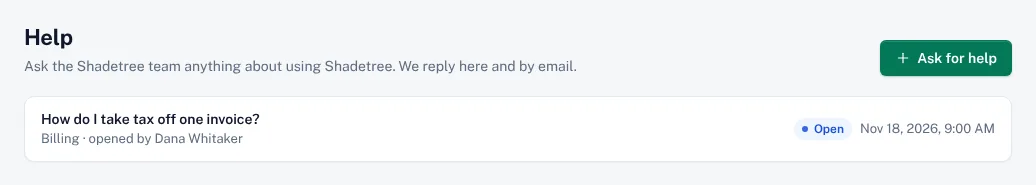
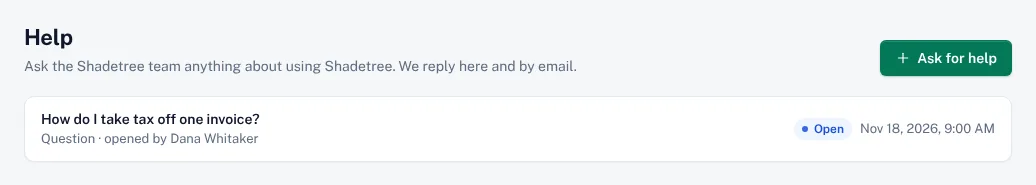
OPS-06 part 4: the drop guard checks the database Rails will use; links show the real site
bin/help-screenshots resolves the database name as Rails will (UrlConfig) and refuses a query
string that names a database (?database= or ?dbname=), for DATABASE_URL and HELP_DATABASE_URL
alike, so nothing but a _help database is ever dropped. In the capture, links render with
https://getshadetree.com, and a picture showing the local server's address is refused. The brand
check matches names across line breaks and lists the payment apps, mail apps and browsers too.
The capture's wait sleeps each time round, the workflow runs only on branches, My day's welcome is
dismissed before pictures, and the demo question is filed as a question.

Claude-Session: https://claude.ai/code/session_01STSMyyw2JA3DZHFPa2E6RQ

Changed region(s): [[0.0309, 0.7027, 0.2471, 0.7838]]

diff --git a/lib/help_screenshots_database.rb b/lib/help_screenshots_database.rb
@@ -1,11 +1,13 @@
-# OPS-06: the database bin/help-screenshots wipes and fills with the demo data. It's the
-# database DATABASE_URL names with "_help" added to the name itself (never to anything after
-# it, such as ?application_name=…), or HELP_DATABASE_URL as given when its database's name ends
-# in "_help". Anything else is refused before anything is dropped. Plain Ruby: the script asks
-# for it before Rails boots.
+# OPS-06: the database bin/help-screenshots wipes and fills with the demo data. It's the database
+# DATABASE_URL names with "_help" added to its name, or HELP_DATABASE_URL as given. Before
+# anything is dropped, the name is resolved as Rails will resolve it, and refused unless it ends
+# in "_help"; a query string that names a database itself (?database=… or ?dbname=…) is refused
+# too, since Rails would connect to that one instead. Runs before Rails boots.
 #
 #   ruby lib/help_screenshots_database.rb   # prints the URL, or explains and exits 1
 require "uri"
+require "active_record"
+require "active_record/database_configurations"
 
 module HelpScreenshotsDatabase
   class Refused < StandardError; end
@@ -13,17 +15,31 @@ module HelpScreenshotsDatabase
   SUFFIX = "_help"
   DEFAULT = "postgres:///shadetree_test"
   NAME = /\A[A-Za-z0-9_.-]+\z/
+  NAMING_PARAMETERS = %w[database dbname].freeze
 
   def self.url(database_url: ENV["DATABASE_URL"], help_url: ENV["HELP_DATABASE_URL"])
-    if help_url.to_s.strip != ""
-      name = database_name(parse(help_url))
-      raise Refused, "HELP_DATABASE_URL names #{name.inspect}, which doesn't end in #{SUFFIX}" unless name.end_with?(SUFFIX)
+    url = if help_url.to_s.strip != ""
+      help_url
+    else
+      uri = parse(database_url.to_s.strip == "" ? DEFAULT : database_url)
+      name = URI.decode_www_form_component(uri.path.to_s.delete_prefix("/"))
+      raise Refused, "the URL doesn't name a database (postgres:///name)" unless name.match?(NAME)
 
-      return help_url
+      uri.path = "/#{name}#{SUFFIX}"
+      uri.to_s
     end
-    uri = parse(database_url.to_s.strip == "" ? DEFAULT : database_url)
-    uri.path = "/#{database_name(uri)}#{SUFFIX}"
-    uri.to_s
+    check!(url)
+    url
+  end
+
+  # The database Rails would connect to with this URL, which must end in _help.
+  def self.check!(url)
+    uri = parse(url)
+    named = URI.decode_www_form(uri.query.to_s).map(&:first) & NAMING_PARAMETERS
+    raise Refused, "the URL's query names a database (#{named.join(", ")}=…); put the name in the path" if named.any?
+
+    name = ActiveRecord::DatabaseConfigurations::UrlConfig.new("test", "primary", url, {}).database.to_s
+    raise Refused, "it would use the database #{name.inspect}, whose name doesn't end in #{SUFFIX}" unless name.match?(NAME) && name.end_with?(SUFFIX)
   end
 
   def self.parse(url)
@@ -31,15 +47,8 @@ module HelpScreenshotsDatabase
     raise Refused, "#{uri.scheme.inspect} isn't a PostgreSQL URL" unless %w[postgres postgresql].include?(uri.scheme)
 
     uri
-  rescue URI::InvalidURIError
+  rescue URI::InvalidURIError, ArgumentError
     raise Refused, "that isn't a database URL"
-  end
-
-  def self.database_name(uri)
-    name = URI.decode_www_form_component(uri.path.to_s.delete_prefix("/"))
-    raise Refused, "the URL doesn't name a database (postgres:///name)" unless name.match?(NAME)
-
-    name
   end
 end
 

diff --git a/app/models/help_centre/screenshots.rb b/app/models/help_centre/screenshots.rb
@@ -17,6 +17,7 @@ module HelpCentre::Screenshots
   COMMAND = "bin/help-screenshots"
   MAX_BYTES = 200_000
   PASSWORD = "shadetree-demo-1"
+  PUBLIC_HOST = "getshadetree.com"
   # Who's signed in, by the front matter's `as:` (the demo users in db/seeds/development.rb).
   USERS = { "owner" => "owner@example.com", "admin" => "admin@example.com", "technician" => "tech@example.com",
             "new" => "new@example.com" }.freeze
@@ -97,7 +98,8 @@ module HelpCentre::Screenshots
       # your own, automations); Starter's limits would show "upgrade" notices instead.
       Business.find_by!(name: BUSINESS).update!(plan: Plan.find_by!(key: "pro"))
       User.update_all(tips_off: true)
-      BusinessUser.update_all(tour_status: "finished", tour_offered_at: Time.current, tour_ended_at: Time.current)
+      BusinessUser.update_all(tour_status: "finished", tour_offered_at: Time.current, tour_ended_at: Time.current,
+                              welcome_dismissed_at: Time.current) # and My day's welcome, so it covers nothing
       yield
     end
   end
@@ -176,8 +178,15 @@ module HelpCentre::Screenshots
   # Headless Chrome on the app, served in this process (as system tests are), so it sees the
   # same database and the same stopped clock.
   class Browser
+    # Links in the pictures (a request form's address, a client link) show the real site, not the
+    # capture's local server. Only in the capturing process; redirects to paths aren't affected.
+    module PublicHost
+      def default_url_options = super.merge(host: HelpCentre::Screenshots::PUBLIC_HOST, protocol: "https", port: nil)
+    end
+
     def capture(shots)
       require "capybara"
+      ApplicationController.prepend(PublicHost) unless ApplicationController < PublicHost
       Capybara.server = :puma, { Silent: true }
       server = Capybara::Server.new(Rails.application).boot
       base = "http://#{server.host}:#{server.port}"
@@ -210,9 +219,14 @@ module HelpCentre::Screenshots
       page.command("Emulation.setEmulatedMedia", features: [ { name: "prefers-reduced-motion", value: "reduce" } ])
       page.go_to(url)
       page.network.wait_for_idle(timeout: 10)
-      50.times { break if page.evaluate("document.fonts.status") == "loaded" && page.at_css("html[data-controllers-loaded]") && sleep(0.2) }
+      50.times do
+        break if page.evaluate("document.fonts.status") == "loaded" && page.at_css("html[data-controllers-loaded]")
+
+        sleep 0.2
+      end
       raise "#{shot.name}: #{url} went to #{page.current_url}" unless page.current_url == url
       raise "#{shot.name}: no #{shot.region} at #{url}" unless page.at_css(shot.region)
+      raise "#{shot.name}: shows the capture's local address" if page.at_css(shot.region).text.match?(/127\.0\.0\.1|localhost/)
 
       # Chrome paints only what's in the window: make it as tall as the page, so a long region
       # is captured whole.

diff --git a/test/models/help/help_checks_test.rb b/test/models/help/help_checks_test.rb
@@ -69,11 +69,12 @@ class HelpChecksTest < ActiveSupport::TestCase
     dir = Pathname(Dir.mktmpdir).tap { _1.join("articles").mkpath }
     FileUtils.cp(HelpLibraryHelpers::FIXTURES.join("topics.yml"), dir)
     dir.join("articles/pay.md").write("---\ntitle: Get paid by card\nsummary: Online.\ncategory: invoices-payments\ntopics: []\nreviewed: 2026-11-24\n---\n" \
-                                      "Connect your Stripe account.\n\n![Press Pay with Apple Pay](x.webp)\n")
+                                      "Connect your Stripe account.\n\n![Press Pay with Apple Pay](x.webp)\n\nOr pay by Google\nPay, or Venmo.\n")
     dir.join("articles/trees.md").write("---\ntitle: Prune apple trees\nsummary: An outlook for spring.\ncategory: services-prices\ntopics: []\nreviewed: 2026-11-24\n---\n" \
                                         "Polish the chrome trim, then excel at edging.\n")
     use_help_library(dir)
-    assert_equal [ "pay: names Stripe; say what it does instead", "pay: names Apple Pay; say what it does instead" ], HelpCentre::Checks.brands(HelpCentre.library)
+    assert_equal [ "Stripe", "Apple Pay", "Google Pay", "Venmo" ].map { "pay: names #{_1}; say what it does instead" }, HelpCentre::Checks.brands(HelpCentre.library),
+                 "case-sensitive whole words, across line breaks; the trees article passes"
   ensure
     FileUtils.rm_rf(dir) if dir
   end

diff --git a/test/lib/help_screenshots_database_test.rb b/test/lib/help_screenshots_database_test.rb
@@ -20,6 +20,19 @@ class HelpScreenshotsDatabaseTest < ActiveSupport::TestCase
     assert_raises(HelpScreenshotsDatabase::Refused) { url(nil, "postgres:///production") }
   end
 
+  test "refuses a query string that names another database, which Rails would use instead" do
+    error = assert_raises(HelpScreenshotsDatabase::Refused) { url("postgres:///x?database=junk2") }
+    assert_includes error.message, "database"
+    assert_raises(HelpScreenshotsDatabase::Refused) { url("postgres:///x?application_name=a&dbname=junk2") }
+    assert_raises(HelpScreenshotsDatabase::Refused) { url(nil, "postgres:///mine_help?database=junk2") }
+    assert_raises(HelpScreenshotsDatabase::Refused) { url(nil, "postgres:///mine_help?dbname=production") }
+  end
+
+  test "checks the name Rails resolves, not just the path" do
+    assert_equal "shadetree_test_help", ActiveRecord::DatabaseConfigurations::UrlConfig.new("test", "primary", url(nil), {}).database
+    assert_equal "x_help", ActiveRecord::DatabaseConfigurations::UrlConfig.new("test", "primary", url("postgres:///x?application_name=dev"), {}).database
+  end
+
   test "refuses what isn't a PostgreSQL URL naming a database" do
     [ "mysql://h/x", "postgres://host/", "postgres:///", "not a url at all", "postgres:///a;drop" ].each do |bad|
       assert_raises(HelpScreenshotsDatabase::Refused, bad) { url(bad) }

diff --git a/db/seeds/development.rb b/db/seeds/development.rb
@@ -541,7 +541,7 @@ end
 # OPS-05: a support ticket with a reply, an operator's internal note and the owner's answer by email.
 Tenancy.with_business(business) do
   unless SupportTicket.exists?
-    ticket = SupportTicket.open!(opened_by: owner, subject: "How do I take tax off one invoice?", category: "billing", page: "/admin/invoices",
+    ticket = SupportTicket.open!(opened_by: owner, subject: "How do I take tax off one invoice?", category: "question", page: "/admin/invoices",
                                  browser: "Mozilla/5.0 (Macintosh) Safari/605.1.15", body: "Westgate is tax exempt for this building only. How do I take tax off just this invoice?")
     ticket.note!(owner, "Exempt building; check they have the certificate on file.")
     ticket.reply_from_operator!(owner, "Open the invoice, choose Tax on the line, then pick None. Only that invoice changes.")

diff --git a/app/models/help_centre.rb b/app/models/help_centre.rb
@@ -51,7 +51,7 @@ module HelpCentre
   # does ("your card payment provider"), not whose it is. The app's own wording, and so the
   # screenshots of it, stay as they are (spec Decisions, 2026-11-24). Case-sensitive, whole
   # words: "apple trees" and "chrome trim" are fine.
-  BRANDS = /\b(?:Stripe|WhatsApp|Apple Pay|Google Pay|Google|iPhone|Android|Microsoft|Excel|QuickBooks|Facebook|Instagram|Mastercard|Visa)\b/
+  BRANDS = /\b(?:Stripe|WhatsApp|Apple\s+Pay|Google\s+Pay|Google|PayPal|Venmo|Zelle|Gmail|Outlook|iPhone|Android|Chrome|Safari|Microsoft|Excel|QuickBooks|Facebook|Instagram|Mastercard|Visa)\b/
   TOPIC = /\A[a-z0-9_]+\z/
   FIELDS = %w[title summary category topics reviewed screenshots].freeze
   SCREENSHOT_FIELDS = %w[name path as region].freeze

diff --git a/app/models/help_centre/checks.rb b/app/models/help_centre/checks.rb
@@ -60,7 +60,7 @@ module HelpCentre::Checks
 
   def brands(library)
     library.articles.flat_map do |article|
-      [ article.title, article.summary, article.body ].join("\n").scan(HelpCentre::BRANDS).uniq.map { "#{article.slug}: names #{_1}; say what it does instead" }
+      [ article.title, article.summary, article.body ].join("\n").scan(HelpCentre::BRANDS).map(&:squish).uniq.map { "#{article.slug}: names #{_1}; say what it does instead" }
     end
   end
 

diff --git a/docs/runbooks/help-screenshots.md b/docs/runbooks/help-screenshots.md
@@ -60,8 +60,9 @@ bin/help-screenshots --check  # what CI runs: says which are out of date, change
 
 It uses its own database, `shadetree_test_help`. If `DATABASE_URL` is set, it uses the database
 that names with `_help` added to its name (`postgres:///x?application_name=dev` becomes
-`x_help`), or `HELP_DATABASE_URL` if you set it, whose name must end in `_help`. It refuses
-anything else before dropping anything. The database is wiped and filled with the demo data on
+`x_help`), or `HELP_DATABASE_URL` if you set it, whose name must end in `_help`. A URL whose
+query names a database (`?database=…` or `?dbname=…`) is refused, and so is anything Rails would
+resolve to a name without `_help`, before anything is dropped. The database is wiped and filled with the demo data on
 every run, so it never touches your development data. It writes the pictures to
 `app/assets/images/help/` and their records to `content/help/screenshots.yml`. Commit both.
 
